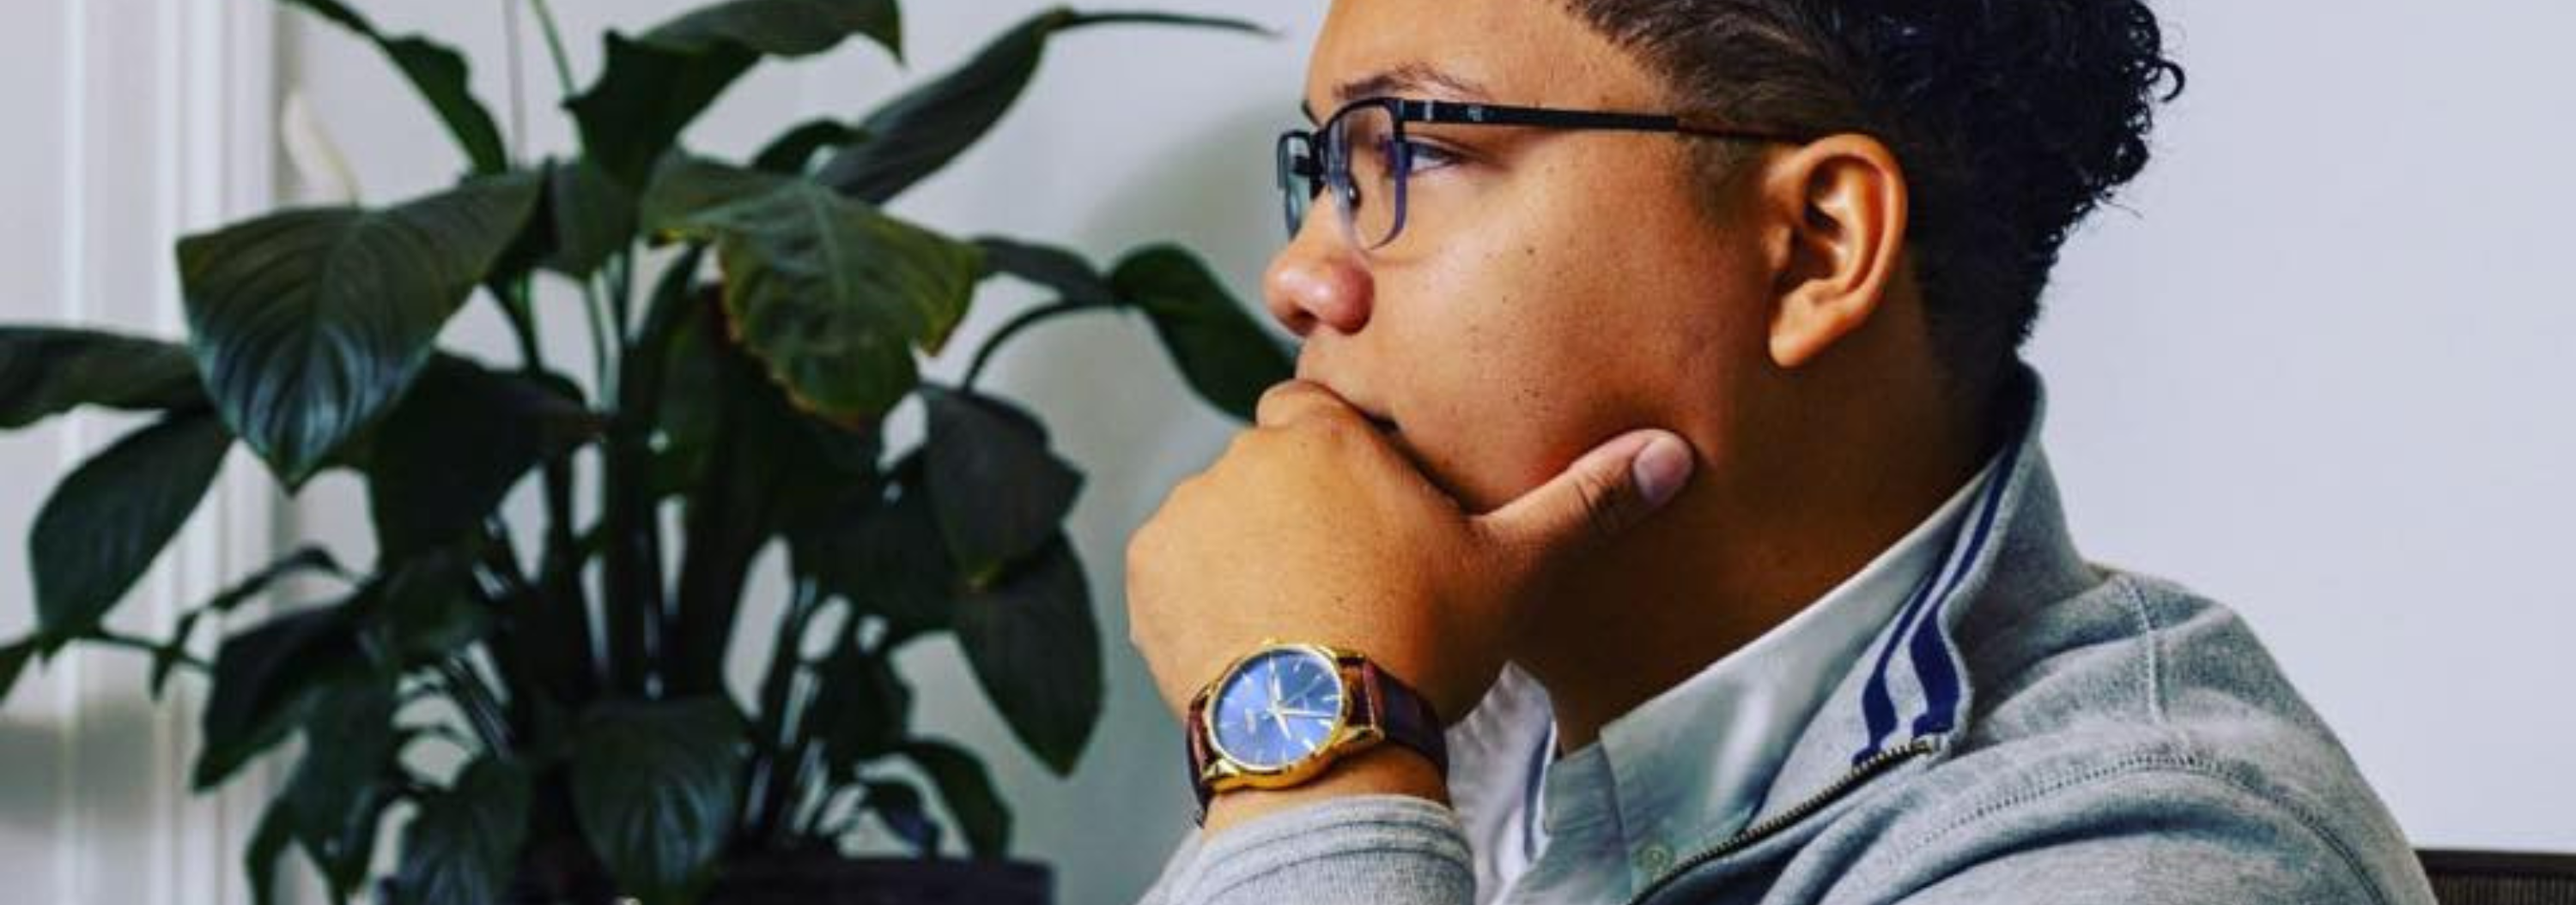
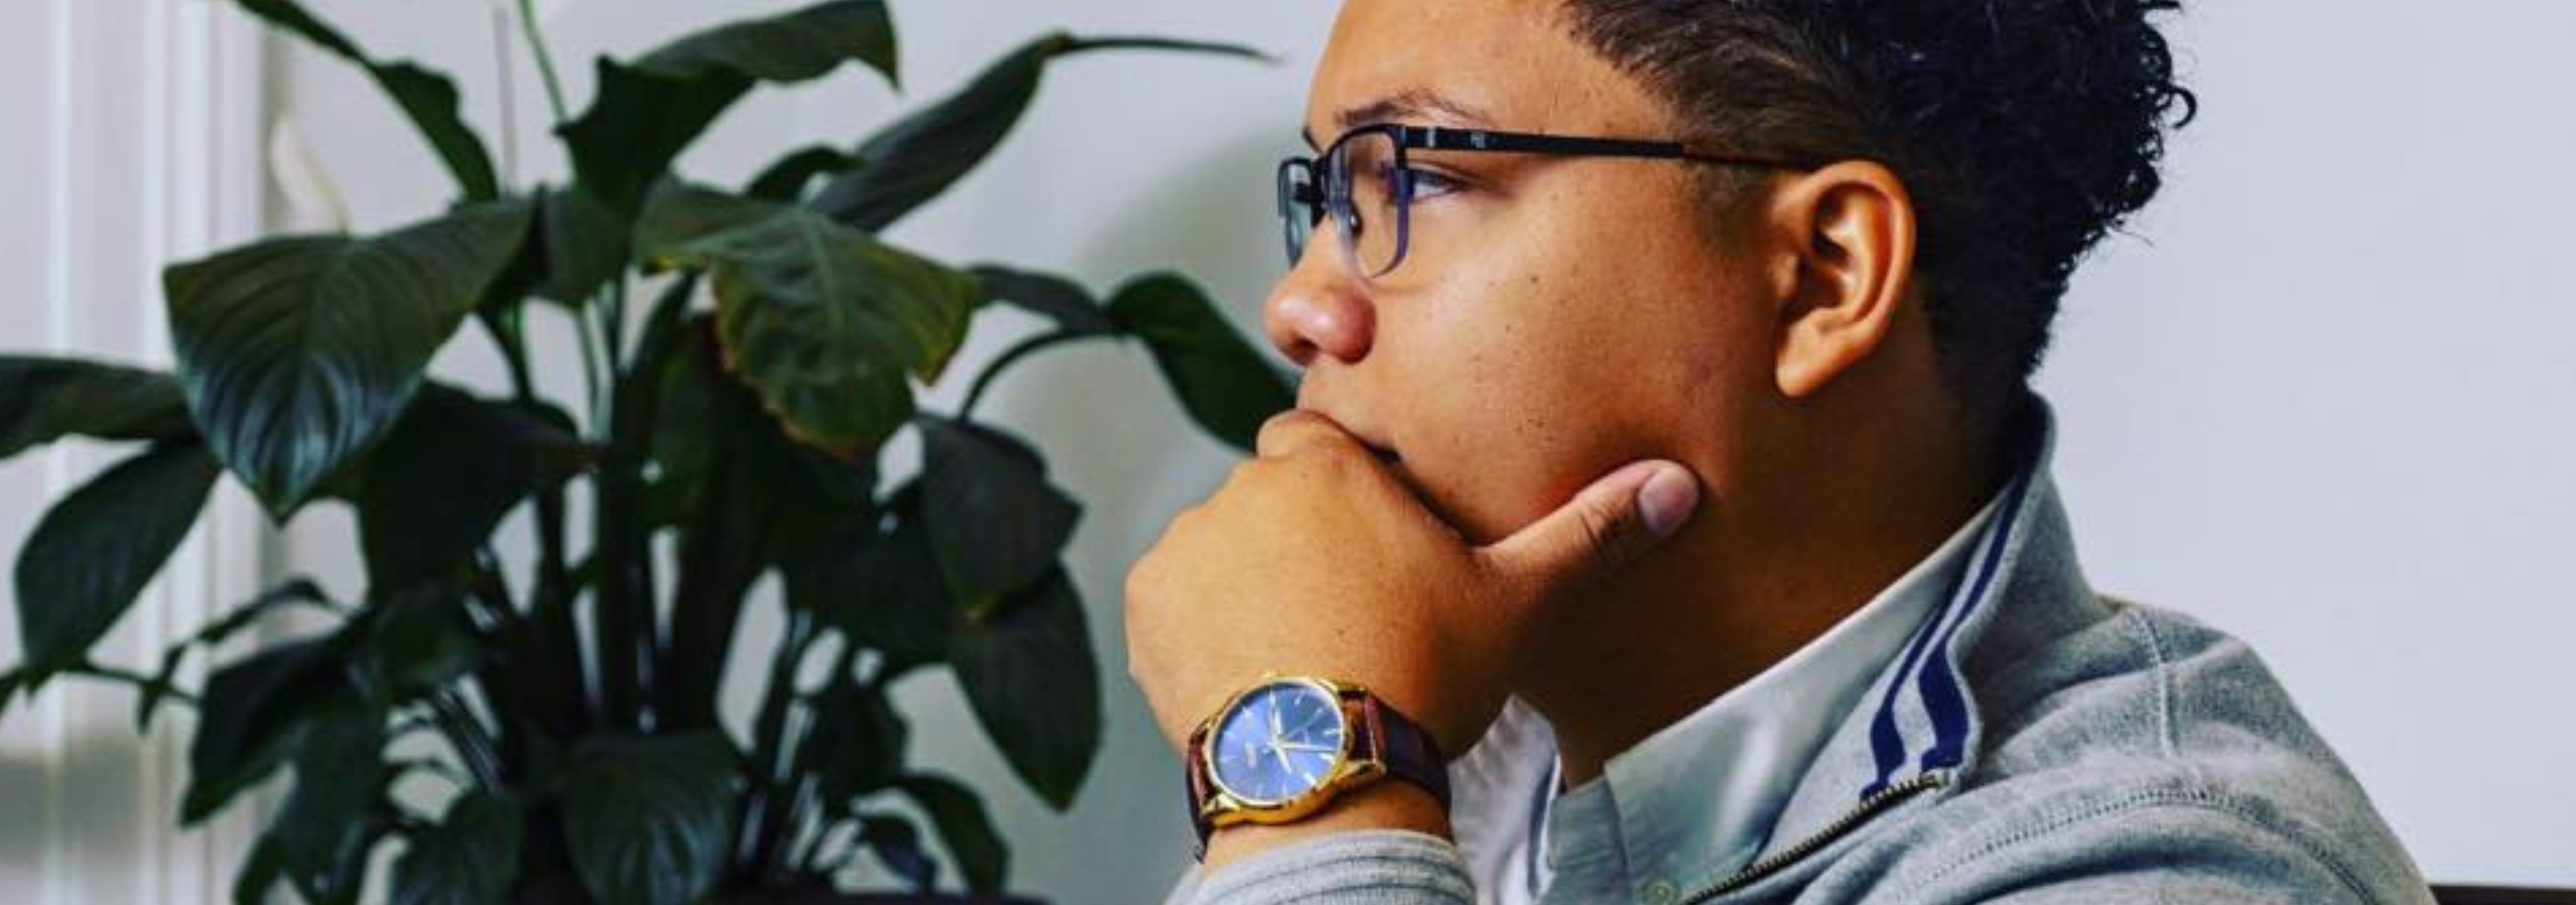
Small Changes
Removed some CRUD buttons, and updated image.

diff --git a/client/src/views/Blog.jsx b/client/src/views/Blog.jsx
@@ -1,7 +1,6 @@
 import { useEffect, useState } from "react";
 import { Link, useNavigate } from "react-router-dom";
 
-
 const Blog = (props) => {
   const [featuredPost, setFeaturedPost] = useState({});
   const { http, allBlogs, setAllBlogs } = props;
@@ -32,7 +31,7 @@ const Blog = (props) => {
   }, []);
 
   const onSelectHandler = (id) => {
-    console.log(id)
+    console.log(id);
     navigate(`/blogs/${id}/details`);
   };
 
@@ -40,28 +39,27 @@ const Blog = (props) => {
     http
       .delete(`/blogs/${id}`)
       .then((res) => {
-        console.log(res.data)
-        setAllBlogs(prevBlog => prevBlog.filter(blog => blog._id !== id))
+        console.log(res.data);
+        setAllBlogs((prevBlog) => prevBlog.filter((blog) => blog._id !== id));
       })
       .catch((err) => {
-        console.log(err)
-      })
-  }
+        console.log(err);
+      });
+  };
 
   const confirm = () => {
     confirmDialog({
-        message: 'Are you sure you want to proceed?',
-        header: 'Confirmation',
-        icon: 'pi pi-exclamation-triangle',
-        accept: () => acceptFunc(),
-        reject: () => rejectFunc()
+      message: "Are you sure you want to proceed?",
+      header: "Confirmation",
+      icon: "pi pi-exclamation-triangle",
+      accept: () => acceptFunc(),
+      reject: () => rejectFunc(),
     });
-}
+  };
 
   // const onClickHandler = (id) => {
   //   navigate('/blogs/create')
   // }
-
 
   const calcReadTime = (words) => {
     const calculation = words / 100;
@@ -69,9 +67,8 @@ const Blog = (props) => {
   };
 
   return (
-    <div className="pb-10">
+    <div className="">
       <div className="relative isolate overflow-hidden pt-40 pb-16 sm:pt-60">
-
         <img
           src="/src/assets/keyboard2.png"
           alt=""
@@ -85,7 +82,7 @@ const Blog = (props) => {
             className=""
             style={{
               clipPath:
-              "polygon(74.1% 44.1%, 100% 61.6%, 97.5% 26.9%, 85.5% 0.1%, 80.7% 2%, 72.5% 32.5%, 60.2% 62.4%, 52.4% 68.1%, 47.5% 58.3%, 45.2% 34.5%, 27.5% 76.7%, 0.1% 64.9%, 17.9% 100%, 27.6% 76.8%, 76.1% 97.7%, 74.1% 44.1%)",
+                "polygon(74.1% 44.1%, 100% 61.6%, 97.5% 26.9%, 85.5% 0.1%, 80.7% 2%, 72.5% 32.5%, 60.2% 62.4%, 52.4% 68.1%, 47.5% 58.3%, 45.2% 34.5%, 27.5% 76.7%, 0.1% 64.9%, 17.9% 100%, 27.6% 76.8%, 76.1% 97.7%, 74.1% 44.1%)",
             }}
           />
         </div>
@@ -97,10 +94,11 @@ const Blog = (props) => {
             className=""
             style={{
               clipPath:
-              "polygon(74.1% 44.1%, 100% 61.6%, 97.5% 26.9%, 85.5% 0.1%, 80.7% 2%, 72.5% 32.5%, 60.2% 62.4%, 52.4% 68.1%, 47.5% 58.3%, 45.2% 34.5%, 27.5% 76.7%, 0.1% 64.9%, 17.9% 100%, 27.6% 76.8%, 76.1% 97.7%, 74.1% 44.1%)",
+                "polygon(74.1% 44.1%, 100% 61.6%, 97.5% 26.9%, 85.5% 0.1%, 80.7% 2%, 72.5% 32.5%, 60.2% 62.4%, 52.4% 68.1%, 47.5% 58.3%, 45.2% 34.5%, 27.5% 76.7%, 0.1% 64.9%, 17.9% 100%, 27.6% 76.8%, 76.1% 97.7%, 74.1% 44.1%)",
             }}
           />
         </div>
+
         <div className="mx-auto max-w-7xl px-6 lg:px-8">
           <div className="mx-auto max-w-2xl lg:mx-0">
             <h2 className="text-6xl font-bold tracking-tight text-white">
@@ -159,7 +157,7 @@ const Blog = (props) => {
         </article>
         <div className="mx-auto w-full max-w-2xl border-t border-gray-900/10 pt-12 sm:pt-16 lg:mx-0 lg:max-w-none lg:border-t-0 lg:pt-0">
           <div className="-my-12 divide-y divide-gray-100/10">
-              {/* <button className="button-5" onClick={onClickHandler}>Create A Blog</button> */}
+            {/* <button className="button-5" onClick={onClickHandler}>Create A Blog</button> */}
             {allBlogs.map((blog) => (
               <article key={blog._id} className="py-12">
                 <div className="group relative max-w-xl">
@@ -180,7 +178,12 @@ const Blog = (props) => {
                     Read time: {calcReadTime(blog.readTime)} minutes
                   </p>
                 </div>
-                <button className="button-5" onClick={() => onSelectHandler(blog._id)}>Edit</button>
+                {/* <button
+                  className="button-5"
+                  onClick={() => onSelectHandler(blog._id)}
+                >
+                  Edit
+                </button> */}
                 {/* <button className="button-5" key={blog._id} onClick={() => onDeleteHandler(blog._id)}>Delete</button> */}
                 {/* ⬇ Author Image and name section ⬇ */}
                 {/* <div className="mt-4 flex">

diff --git a/client/src/views/About.jsx b/client/src/views/About.jsx
@@ -1,13 +1,14 @@
 const About = () => {
   return (
-    <div className="relative isolate alan_background_color overflow-hidden pt-40 sm:pt-60">
+    <div className="">
+    <div className="relative isolate overflow-hidden pt-40 sm:pt-60 ">
       <img
         src="/src/assets/headshot.png"
         alt=""
-        className="absolute inset-0 -z-10 object-cover"
+        className="absolute inset-0 -z-10 object-cover "
       />
       <div
-        className="hidden sm:absolute sm:-top-10 sm:right-1/2 sm:-z-10 sm:mr-10 sm:block sm:transform-gpu sm:blur-3xl"
+        className="hidden sm:absolute sm:-top-10 sm:right-1/2 sm:-z-10 sm:mr-10 sm:block sm:transform-gpu sm:blur-3xl "
         aria-hidden="true"
       >
         <div
@@ -30,7 +31,8 @@ const About = () => {
           }}
         />
       </div>
-      <div className="mx-auto max-w-7xl px-6 lg:px-8">
+
+      <div className="mx-auto max-w-7xl px-6 lg:px-8 ">
         <div className="mx-auto max-w-2xl lg:mx-0">
           <h2 className="text-6xl font-bold tracking-tight text-white">
             About Me
@@ -41,7 +43,7 @@ const About = () => {
           </p>
         </div>
       </div>
-      <div className="alan_background_color px-6 py-10 lg:px-8">
+      <div className="px-6 py-10 lg:px-8 alan_background_color">
         <div className="mx-auto max-w-3xl text-base leading-7 text-white ">
           <p className="text-base font-semibold leading-7 alan_font_color">
             Introducing
@@ -126,6 +128,7 @@ const About = () => {
           </div>
         </div>
       </div>
+    </div>
     </div>
   );
 };

diff --git a/client/src/views/Header.jsx b/client/src/views/Header.jsx
@@ -65,11 +65,11 @@ const Header = () => {
                 Contact
               </a>
             </li>
-            <li>
+            {/* <li>
               <a className="button-5" onClick={onCreateHandler}>
                 Create A Blog
               </a>
-            </li>
+            </li> */}
           </ul>
           <button className="header__bars">
             <svg
